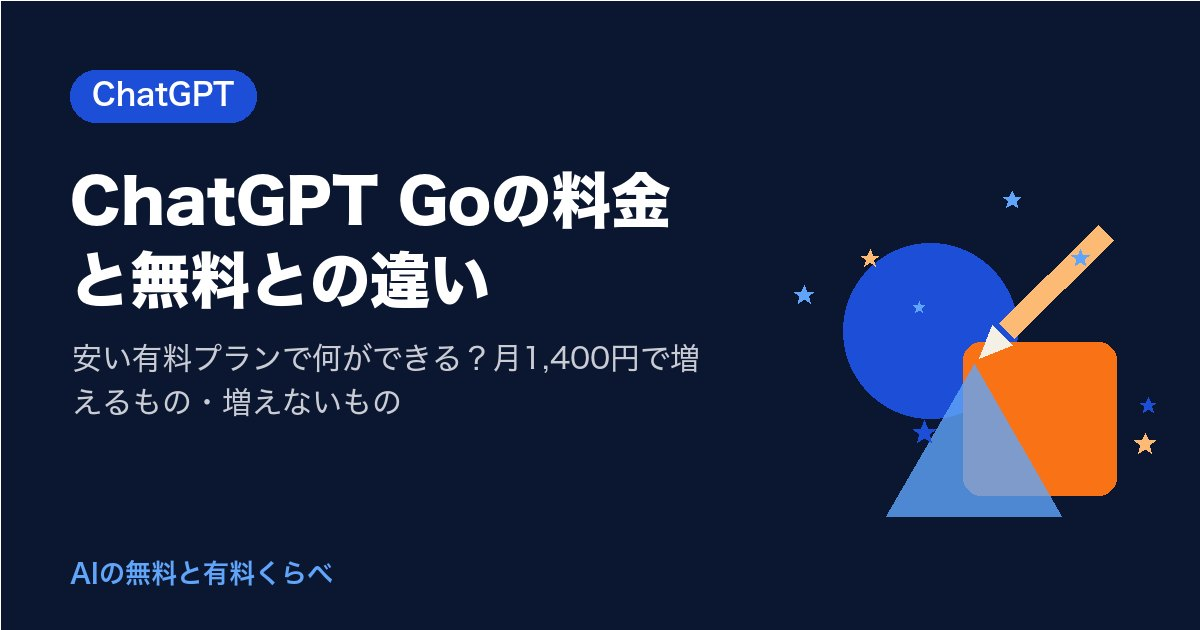
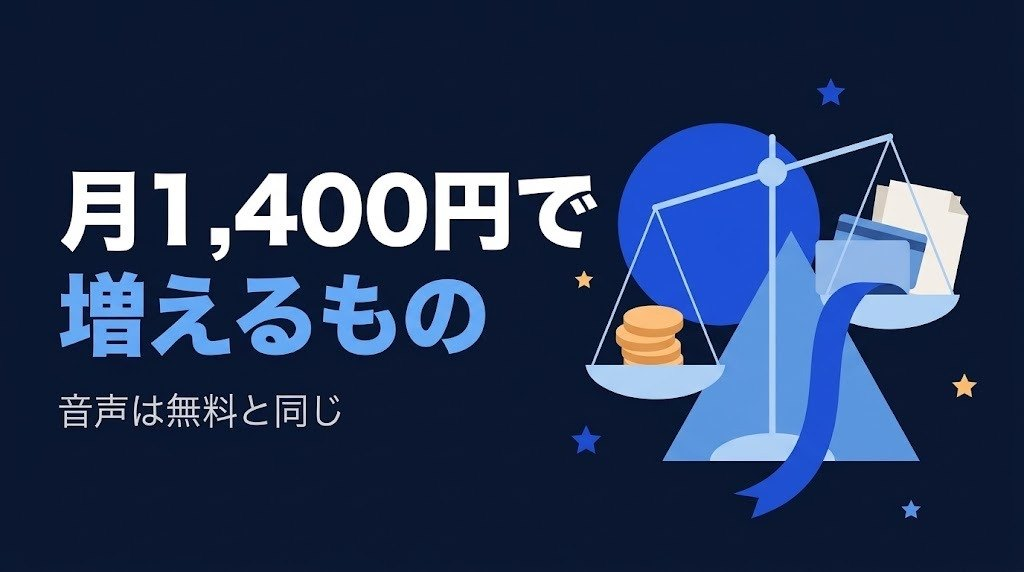
Use Gemini-made eyecatch images matching the header

diff --git a/docs/articles/chatgpt-go-price.html b/docs/articles/chatgpt-go-price.html
@@ -220,7 +220,7 @@ article ul li::marker{content:"▸ ";color:#4da3ff}
 <script>window.dataLayer=window.dataLayer||[];function gtag(){dataLayer.push(arguments);}gtag('js',new Date());gtag('config','G-EHWF25C1RB');</script><script type="application/ld+json">{"@context": "https://schema.org", "@type": "Article", "headline": "ChatGPT Goの料金と無料との違い｜安い有料プランで何ができる？月1,400円で増えるもの・増えないもの", "description": "ChatGPT Goの料金は月1,400円（2026年10月28日に公式の料金ページで確認）。無料との違いは、画像生成・ファイルのアップロード・データ分析の回数が増え、メモリが長くなり、プロジェクトやタスク、カスタムGPTが使えること。テキストのチャットは無料でも無制限で、音声の上限はGoでも無料と同じです。Plus（月3,000円）との差、会社員のあなたがどちらを選ぶかの目安を表で整理します。", "datePublished": "2026-10-28", "image": "https://masabee1029.github.io/ai-free-vs-paid/img/articles/chatgpt-go-price.jpg", "author": {"@type": "Person", "name": "運営者", "url": "https://masabee1029.github.io/ai-free-vs-paid/about.html"}, "publisher": {"@type": "Organization", "name": "AIの無料と有料くらべ"}, "mainEntityOfPage": "https://masabee1029.github.io/ai-free-vs-paid/articles/chatgpt-go-price.html"}</script><script type="application/ld+json">{"@context": "https://schema.org", "@type": "BreadcrumbList", "itemListElement": [{"@type": "ListItem", "position": 1, "name": "ホーム", "item": "https://masabee1029.github.io/ai-free-vs-paid/index.html"}, {"@type": "ListItem", "position": 2, "name": "ChatGPT", "item": "https://masabee1029.github.io/ai-free-vs-paid/category/chatgpt.html"}, {"@type": "ListItem", "position": 3, "name": "ChatGPT Goの料金と無料との違い｜安い有料プランで何ができる？月1,400円で増えるもの・増えないもの", "item": "https://masabee1029.github.io/ai-free-vs-paid/articles/chatgpt-go-price.html"}]}</script></head><body>
 <header><div class="wrap"><div class="top"><a class="logo" href="../index.html">AIの<span>無料と有料</span>くらべ</a><span class="tagline">6つのAIを表で比べる</span></div>
 <nav class="gnav"><a href="../index.html">ホーム</a><a href="../category/chatgpt.html" class="on">ChatGPT</a><a href="../category/gemini.html">Gemini</a><a href="../category/claude.html">Claude</a><a href="../category/copilot.html">Copilot</a><a href="../category/notebooklm.html">NotebookLM</a><a href="../category/canva.html">Canva</a><a href="../category/compare.html">比較</a></nav></div></header>
-<div class="wrap"><div class="layout"><main><div class="crumb"><a href="../index.html">ホーム</a> ＞ <a href="../category/chatgpt.html">ChatGPT</a> ＞ ChatGPT Goの料金と無料との違い｜安い有料プランで何ができる？月1,400円で増えるもの・増えないもの</div><article><a class="tag" href="../category/chatgpt.html">ChatGPT</a><span class="date">2026-10-28</span><h1>ChatGPT Goの料金と無料との違い｜安い有料プランで何ができる？月1,400円で増えるもの・増えないもの</h1><p class="prline">※この記事はプロモーション（広告）を含みます</p><img class="eyecatch" src="../img/articles/chatgpt-go-price.jpg" alt="ChatGPT Goの料金と無料との違い｜安い有料プランで何ができる？月1,400円で増えるもの・増えないもの（図形と文字で作ったイメージ画像）"><div class="lead"><strong>この記事でわかること</strong>ChatGPT Goの料金は月1,400円（2026年10月28日に公式の料金ページで確認）。無料との違いは、画像生成・ファイルのアップロード・データ分析の回数が増え、メモリが長くなり、プロジェクトやタスク、カスタムGPTが使えること。テキストのチャットは無料でも無制限で、音声の上限はGoでも無料と同じです。Plus（月3,000円）との差、会社員のあなたがどちらを選ぶかの目安を表で整理します。</div><p>ChatGPTの無料版で「今日の画像生成の上限に達しました」と出て、「安い有料プランがあればいいのに」と思ったことはありませんか？<br>ChatGPT Goの料金は、月1,400円です。無料との違いは、画像生成・ファイルのアップロード・データ分析の回数が増え、メモリ（会話を覚えておく仕組み）が長くなり、プロジェクト・タスク・カスタムGPTが使えるようになること。ふだんのテキストのチャットは無料でも無制限なので、「文章の相談だけ」なら無料のままで足ります。<br>この記事では、2026年10月28日に公式の料金ページとヘルプセンターで確かめた内容を、会社員のあなたの使い方に沿って、無料・Go・Plusの3つで並べます。</p>
+<div class="wrap"><div class="layout"><main><div class="crumb"><a href="../index.html">ホーム</a> ＞ <a href="../category/chatgpt.html">ChatGPT</a> ＞ ChatGPT Goの料金と無料との違い｜安い有料プランで何ができる？月1,400円で増えるもの・増えないもの</div><article><a class="tag" href="../category/chatgpt.html">ChatGPT</a><span class="date">2026-10-28</span><h1>ChatGPT Goの料金と無料との違い｜安い有料プランで何ができる？月1,400円で増えるもの・増えないもの</h1><p class="prline">※この記事はプロモーション（広告）を含みます</p><img class="eyecatch" src="../img/articles/chatgpt-go-price.jpg" alt="AIで作成したイメージ画像：ChatGPT Goの料金と無料との違い｜安い有料プランで何ができる？月1,400円で増えるもの・増えないもの"><div class="lead"><strong>この記事でわかること</strong>ChatGPT Goの料金は月1,400円（2026年10月28日に公式の料金ページで確認）。無料との違いは、画像生成・ファイルのアップロード・データ分析の回数が増え、メモリが長くなり、プロジェクトやタスク、カスタムGPTが使えること。テキストのチャットは無料でも無制限で、音声の上限はGoでも無料と同じです。Plus（月3,000円）との差、会社員のあなたがどちらを選ぶかの目安を表で整理します。</div><p>ChatGPTの無料版で「今日の画像生成の上限に達しました」と出て、「安い有料プランがあればいいのに」と思ったことはありませんか？<br>ChatGPT Goの料金は、月1,400円です。無料との違いは、画像生成・ファイルのアップロード・データ分析の回数が増え、メモリ（会話を覚えておく仕組み）が長くなり、プロジェクト・タスク・カスタムGPTが使えるようになること。ふだんのテキストのチャットは無料でも無制限なので、「文章の相談だけ」なら無料のままで足ります。<br>この記事では、2026年10月28日に公式の料金ページとヘルプセンターで確かめた内容を、会社員のあなたの使い方に沿って、無料・Go・Plusの3つで並べます。</p>
 <p><strong>確認日：2026年10月28日</strong>（料金・上限は各社の公式情報で確認。変わることがあります）</p>
 <div class="toc"><strong>目次</strong><ol><li><a href="#s1">ChatGPT Goの料金｜月1,400円、年払いはなし</a></li><li><a href="#s2">無料とGoの違い｜増えるもの・増えないもの</a></li><li><a href="#s3">会社員のあなたなら、無料・Go・Plusのどれ？</a></li><li><a href="#s4">向かない人・注意点</a></li><li><a href="#s5">申し込みと、解約のしかた</a></li><li><a href="#s6">確かめた公式の情報</a></li><li><a href="#s7">まとめ</a></li></ol></div><div class="picks"><div class="picks-h">この記事で役立つ本・道具</div><div class="pick"><div><strong>ChatGPTの入門書</strong><span>無料版から順に学べる</span></div><a class="btn amz" rel="nofollow sponsored noopener" target="_blank" href="https://www.amazon.co.jp/s?k=ChatGPT+%E6%9C%AC+%E5%85%A5%E9%96%80&amp;tag=masabee00001-22">Amazon</a><a class="btn rkt" rel="nofollow sponsored noopener" target="_blank" href="https://hb.afl.rakuten.co.jp/hgc/5867408e.a723d753.5867408f.9cd38db5/?pc=https%3A%2F%2Fsearch.rakuten.co.jp%2Fsearch%2Fmall%2FChatGPT%2520%25E6%259C%25AC%2520%25E5%2585%25A5%25E9%2596%2580%2F">楽天</a></div><div class="pick"><div><strong>ChatGPTの仕事術の本</strong><span>会社の用事に落とし込める</span></div><a class="btn amz" rel="nofollow sponsored noopener" target="_blank" href="https://www.amazon.co.jp/s?k=ChatGPT+%E4%BB%95%E4%BA%8B%E8%A1%93+%E6%9C%AC&amp;tag=masabee00001-22">Amazon</a><a class="btn rkt" rel="nofollow sponsored noopener" target="_blank" href="https://hb.afl.rakuten.co.jp/hgc/5867408e.a723d753.5867408f.9cd38db5/?pc=https%3A%2F%2Fsearch.rakuten.co.jp%2Fsearch%2Fmall%2FChatGPT%2520%25E4%25BB%2595%25E4%25BA%258B%25E8%25A1%2593%2520%25E6%259C%25AC%2F">楽天</a></div></div><h2 id="s1">ChatGPT Goの料金｜月1,400円、年払いはなし</h2>
 <p>公式の料金ページ（日本向けの表示）で確かめた、個人向けプランの料金です。</p>
@@ -255,7 +255,7 @@ article ul li::marker{content:"▸ ";color:#4da3ff}
 <ul><li><a href="https://chatgpt.com/ja-JP/pricing/" target="_blank" rel="noopener">ChatGPT プランと料金（日本向けの表示）</a></li><li><a href="https://help.openai.com/en/articles/11989085-what-is-chatgpt-go" target="_blank" rel="noopener">What is ChatGPT Go?（OpenAI Help Center・英語）</a></li><li><a href="https://help.openai.com/en/articles/20001274-chatgpt-voice" target="_blank" rel="noopener">ChatGPT Voice（OpenAI Help Center・英語。プラン別の音声の上限）</a></li></ul>
 <div class="picks"><div class="picks-h">次の一歩に役立つ本・道具</div><div class="pick"><div><strong>ChatGPTの入門書</strong><span>無料版から順に学べる</span></div><a class="btn amz" rel="nofollow sponsored noopener" target="_blank" href="https://www.amazon.co.jp/s?k=ChatGPT+%E6%9C%AC+%E5%85%A5%E9%96%80&amp;tag=masabee00001-22">Amazon</a><a class="btn rkt" rel="nofollow sponsored noopener" target="_blank" href="https://hb.afl.rakuten.co.jp/hgc/5867408e.a723d753.5867408f.9cd38db5/?pc=https%3A%2F%2Fsearch.rakuten.co.jp%2Fsearch%2Fmall%2FChatGPT%2520%25E6%259C%25AC%2520%25E5%2585%25A5%25E9%2596%2580%2F">楽天</a></div><div class="pick"><div><strong>ChatGPTの仕事術の本</strong><span>会社の用事に落とし込める</span></div><a class="btn amz" rel="nofollow sponsored noopener" target="_blank" href="https://www.amazon.co.jp/s?k=ChatGPT+%E4%BB%95%E4%BA%8B%E8%A1%93+%E6%9C%AC&amp;tag=masabee00001-22">Amazon</a><a class="btn rkt" rel="nofollow sponsored noopener" target="_blank" href="https://hb.afl.rakuten.co.jp/hgc/5867408e.a723d753.5867408f.9cd38db5/?pc=https%3A%2F%2Fsearch.rakuten.co.jp%2Fsearch%2Fmall%2FChatGPT%2520%25E4%25BB%2595%25E4%25BA%258B%25E8%25A1%2593%2520%25E6%259C%25AC%2F">楽天</a></div></div><div class="picks"><div class="picks-h">あわせて使えるサービス（PR）</div><div class="pick"><div><strong>PLAUD（AIボイスレコーダー）</strong><span>会議を録るだけで、AIが文字起こしと要約をしてくれる</span></div><a class="btn vc" rel="nofollow sponsored noopener" target="_blank" href="https://px.a8.net/svt/ejp?a8mat=4BELTL+7QQQA+5J4W+5YRHE">公式ストアを見る</a><img src="https://www11.a8.net/0.gif?a8mat=4BELTL+7QQQA+5J4W+5YRHE" height="1" width="1" alt="" style="border:0"></div><div class="pick"><div><strong>ConoHa AI Canvas</strong><span>インストールなしで、ブラウザだけでAI画像を作れる</span></div><a class="btn vc" rel="nofollow sponsored noopener" target="_blank" href="https://px.a8.net/svt/ejp?a8mat=4BELTL+BWRYQ+50+7RTY1E">公式サイトを見る</a><img src="https://www14.a8.net/0.gif?a8mat=4BELTL+BWRYQ+50+7RTY1E" height="1" width="1" alt="" style="border:0"></div><div class="pick"><div><strong>Notta（AI文字起こし）</strong><span>会議や講義の音声を、AIが文字起こしして議事録にする</span></div><a class="btn vc" rel="nofollow sponsored noopener" target="_blank" href="https://px.a8.net/svt/ejp?a8mat=4BENDR+2Z9W2+5988+5YJRM">無料で試す</a><img src="https://www16.a8.net/0.gif?a8mat=4BENDR+2Z9W2+5988+5YJRM" height="1" width="1" alt="" style="border:0"></div></div><div class="picks book"><div class="picks-h">著者の本（この連載の考え方を 1 冊に）</div><div class="book-row"><img class="book-cover" loading="lazy" src="../img/book1.jpg" alt="39歳からのAI仕事術 会社のPCで今日から使える39のプロンプト の表紙"><div class="book-txt"><strong>39歳からのAI仕事術 会社のPCで今日から使える39のプロンプト</strong><span>Copilot・ChatGPT・Gemini対応／著者 まさび／500円・Kindle Unlimited 対象</span><span class="book-note">会社のPCで、明日の朝からそのまま使える39の頼み方を1冊にまとめました。サイトとは別に書き下ろした内容です。</span><a class="btn amz" rel="nofollow sponsored noopener" target="_blank" href="https://www.amazon.co.jp/dp/B0HNZWNVM5?tag=masabee00001-22">Amazonで見る（Kindle）</a></div></div></div><h2 id="s7">まとめ</h2>
 <ul><li>ChatGPT Goの料金は<strong>月1,400円</strong>。年払いはなく、いつでも解約できる（2026年10月28日確認）</li><li>無料との違いは、<strong>画像生成・ファイルのアップロード・データ分析が増え、メモリが長くなり、プロジェクト・タスク・カスタムGPTが使える</strong>こと</li><li><strong>音声の上限は無料と同じ</strong>。高度なリーズニングモデルとDeep Researchの拡張はPlus（月3,000円）から</li><li>選び方は、<strong>いま自分がどの上限に当たっているか</strong>を1週間数えてから。画像とアップロードならGo、調べ物の深さならPlus、どちらでもなければ無料</li><li>会社の情報は、どのプランでも会社の決まりを先に確かめ、社外秘・個人情報は入れない</li></ul>
-<p>ここまで読んでくださって、ありがとうございます。<br>まずは今週、ChatGPTで「上限に達しました」と出た回数を、メモに正の字で数えてみませんか。この1つだけで、月1,400円を払うかどうかの答えが出ます。<br>あなたがいちばんよく当たる上限は、画像ですか、それとも調べ物の深さですか？</p><div class="next"><div class="next-h">今日できる次の一歩</div><p>最後まで読んでくださり、ありがとうございました。</p><p>まずは無料版で、今日の用事を1つだけAIに頼んでみませんか。足りないと感じた所が、有料にするかを決める一番の材料になります。</p><p>あなたが最初に任せたい仕事は何ですか？</p></div><p class="ainote">この記事は下書きにAIを使い、内容は運営者が公式情報で確認しています。</p><script>(function(C){var R=window.matchMedia&&matchMedia("(prefers-reduced-motion: reduce)").matches;
+<p>ここまで読んでくださって、ありがとうございます。<br>まずは今週、ChatGPTで「上限に達しました」と出た回数を、メモに正の字で数えてみませんか。この1つだけで、月1,400円を払うかどうかの答えが出ます。<br>あなたがいちばんよく当たる上限は、画像ですか、それとも調べ物の深さですか？</p><div class="next"><div class="next-h">今日できる次の一歩</div><p>最後まで読んでくださり、ありがとうございました。</p><p>まずは無料版で、今日の用事を1つだけAIに頼んでみませんか。足りないと感じた所が、有料にするかを決める一番の材料になります。</p><p>あなたが最初に任せたい仕事は何ですか？</p></div><p class="ainote">この記事は下書きにAIを使い、内容は運営者が公式情報で確認しています。画像はAIで作成したイメージです。</p><script>(function(C){var R=window.matchMedia&&matchMedia("(prefers-reduced-motion: reduce)").matches;
 var art=document.querySelector("article");if(!art)return;
 /* 読んだ記事を覚えておく（カテゴリページの「読んだ」印に使う。この端末の中だけ。同じ github.io の別サイトと混ざらないよう、パス全体で覚える） */
 try{var RK="ax-read",RL=JSON.parse(localStorage.getItem(RK)||"[]"),me=location.pathname;if(RL.indexOf(me)<0){RL.push(me);localStorage.setItem(RK,JSON.stringify(RL.slice(-300)))}}catch(e){}
